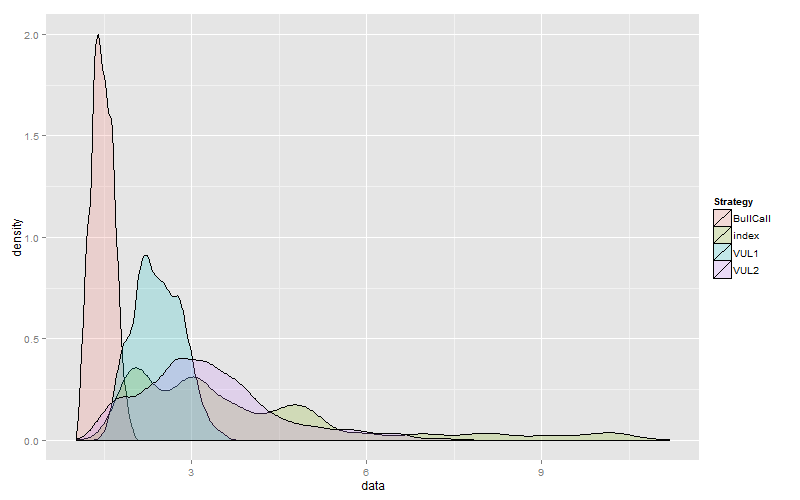
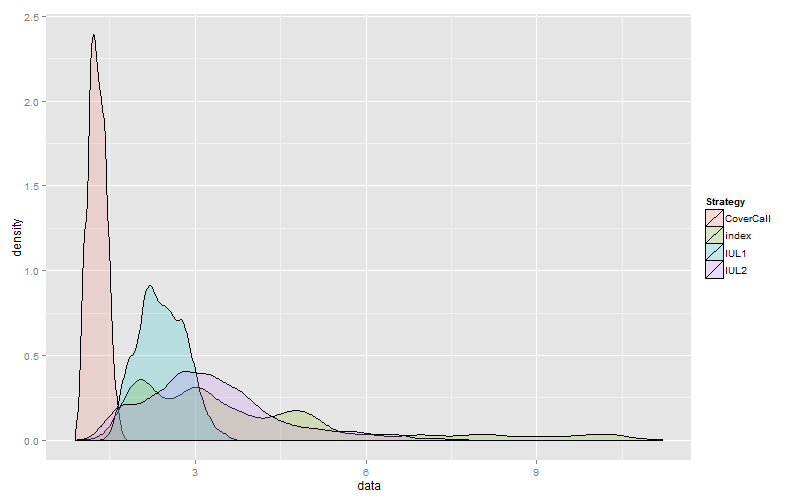
Update 2016-09-29-Stock-Investment-and-Life-Insurance.md

diff --git a/_posts/2016-09-29-Stock-Investment-and-Life-Insurance.md b/_posts/2016-09-29-Stock-Investment-and-Life-Insurance.md
@@ -19,7 +19,7 @@ Compare the following strategies:
 3. Strategy 3: invest in VUL without the cap contrainst
 	* Each year's capital gain percentage is S&P 500 index return subtracted by 5%, and floored at 0%
 4. Strategy 4: a strategy that tries to DIY strategy 2 
-	* Buy S&P 500 Index ETF and buy a bull call spread with 1-year maturity and roll every year (long ATM call and short 11% OTM call)
+	* Buy S&P 500 Index ETF and buy an ATM put and sell an 11%-OTM call with 1-year maturity and roll the options every year
 	* For simplicity, I assume 1-year interest rate of 1.5%, 1-year dividend yield of 2.46%, 1-year volatility of 15%
 	* The call spread premium is approximated by BS formula: annual cost is 3.41% of S&P 500 notional given the above parameters
 
@@ -35,22 +35,22 @@ Final asset value at the end of investment horizon divided by initial capital
 
 **Summary Statistics**
 
-| Percentiles |  ETF | VUL1 | VUL2 | ETF+BullSpread |
+| Percentiles |  ETF | IUL1 | IUL2 | CoverCall |
 |------------:|-----:|-----:|-----:|---------------:|
-|          0% | 0.74 | 0.91 | 0.85 |           0.93 |
-|          1% | 0.89 | 1.01 | 0.92 |           0.99 |
-|          5% | 1.07 | 1.10 | 1.00 |           1.04 |
-|         10% | 1.14 | 1.15 | 1.07 |           1.08 |
-|         25% | 1.34 | 1.23 | 1.23 |           1.13 |
-|         50% | 1.69 | 1.32 | 1.47 |           1.18 |
-|         75% | 2.17 | 1.42 | 1.81 |           1.24 |
-|         90% | 2.46 | 1.52 | 2.04 |           1.30 |
-|         95% | 2.82 | 1.58 | 2.16 |           1.34 |
-|         99% | 3.16 | 1.66 | 2.42 |           1.38 |
-|        100% | 3.30 | 1.73 | 2.93 |           1.43 |
-|        Mean | 1.77 | 1.33 | 1.52 |           1.18 |
-|         Vol | 1.77 | 1.33 | 1.52 |           1.18 |
-|      Sharpe | 0.34 | 0.13 | 0.24 |           0.02 |
+|          0% | 0.74 | 0.91 | 0.85 |           0.88 |
+|          1% | 0.89 | 1.01 | 0.92 |           0.94 |
+|          5% | 1.07 | 1.10 | 1.00 |           0.99 |
+|         10% | 1.14 | 1.15 | 1.07 |           1.02 |
+|         25% | 1.34 | 1.23 | 1.23 |           1.06 |
+|         50% | 1.69 | 1.32 | 1.47 |           1.11 |
+|         75% | 2.17 | 1.42 | 1.81 |           1.17 |
+|         90% | 2.46 | 1.52 | 2.04 |           1.22 |
+|         95% | 2.82 | 1.58 | 2.16 |           1.26 |
+|         99% | 3.16 | 1.66 | 2.42 |           1.30 |
+|        100% | 3.30 | 1.73 | 2.93 |           1.34 |
+|        Mean | 1.77 | 1.33 | 1.52 |           1.12 |
+|         Vol | 0.54 | 0.14 | 0.37 |           0.08 |
+|      Sharpe | 1.13 | 1.18 | 0.99 |          -0.58 |
 
 **Distributions**
 {% include image.html url="images/Histogram10Year.png" caption="" width="800" height="500" align="right" %}
@@ -63,22 +63,22 @@ Final asset value at the end of investment horizon divided by initial capital
 
 **Summary Statistics**
 
-| Percentiles |   ETF | VUL1 | VUL2 | ETF+BullSpread |
-|------------:|------:|-----:|-----:|---------------:|
-|          0% |  1.60 | 1.42 | 1.15 |           1.02 |
-|          1% |  1.71 | 1.61 | 1.40 |           1.10 |
-|          5% |  1.85 | 1.76 | 1.65 |           1.17 |
-|         10% |  1.96 | 1.87 | 1.88 |           1.22 |
-|         25% |  2.30 | 2.12 | 2.49 |           1.34 |
-|         50% |  3.22 | 2.40 | 3.13 |           1.46 |
-|         75% |  4.74 | 2.73 | 3.85 |           1.61 |
-|         90% |  7.13 | 2.97 | 4.84 |           1.72 |
-|         95% |  9.05 | 3.11 | 5.65 |           1.78 |
-|         99% | 10.38 | 3.39 | 6.65 |           1.91 |
-|        100% | 11.20 | 3.69 | 7.84 |           2.04 |
-|        Mean |  3.91 | 2.42 | 3.27 |           1.47 |
-|         Vol |  3.91 | 2.42 | 3.27 |           1.47 |
-|      Sharpe |  0.66 | 0.44 | 0.59 |           0.08 |
+| Percentiles |   ETF | IUL1 | IUL2 | CoverCall |
+|------------:|------:|-----:|-----:|----------:|
+|          0% |  1.60 | 1.42 | 1.15 |      0.91 |
+|          1% |  1.71 | 1.61 | 1.40 |      0.97 |
+|          5% |  1.85 | 1.76 | 1.65 |      1.03 |
+|         10% |  1.96 | 1.87 | 1.88 |      1.08 |
+|         25% |  2.30 | 2.12 | 2.49 |      1.17 |
+|         50% |  3.22 | 2.40 | 3.13 |      1.27 |
+|         75% |  4.74 | 2.73 | 3.85 |      1.40 |
+|         90% |  7.13 | 2.97 | 4.84 |      1.49 |
+|         95% |  9.05 | 3.11 | 5.65 |      1.54 |
+|         99% | 10.38 | 3.39 | 6.65 |      1.65 |
+|        100% | 11.20 | 3.69 | 7.84 |      1.76 |
+|        Mean |  3.91 | 2.42 | 3.27 |      1.28 |
+|         Vol |  2.10 | 0.42 | 1.16 |      0.16 |
+|      Sharpe |  1.22 | 2.58 | 1.67 |     -0.42 |
 
 **Distributions**
 {% include image.html url="images/Histogram20Year.png" caption="" width="800" height="500" align="right" %}
@@ -92,22 +92,22 @@ Final asset value at the end of investment horizon divided by initial capital
 
 **Summary Statistics**
 
-| Percentiles |   ETF | VUL1 |  VUL2 | ETF+BullSpread |
-|------------:|------:|-----:|------:|---------------:|
-|          0% |  3.92 | 2.39 |  2.96 |           1.18 |
-|          1% |  4.35 | 2.74 |  3.36 |           1.29 |
-|          5% |  4.65 | 3.09 |  3.70 |           1.41 |
-|         10% |  5.10 | 3.34 |  3.97 |           1.50 |
-|         25% |  5.74 | 3.79 |  5.03 |           1.65 |
-|         50% |  8.47 | 4.50 |  7.06 |           1.89 |
-|         75% | 11.27 | 5.08 |  8.77 |           2.07 |
-|         90% | 13.52 | 5.43 |  9.90 |           2.18 |
-|         95% | 14.46 | 5.64 | 10.60 |           2.25 |
-|         99% | 15.40 | 6.03 | 11.85 |           2.37 |
-|        100% | 16.32 | 6.77 | 14.22 |           2.62 |
-|        Mean |  8.65 | 4.43 |  7.00 |           1.86 |
-|         Vol |  8.65 | 4.43 |  7.00 |           1.86 |
-|      Sharpe |  0.82 | 0.65 |  0.78 |           0.16 |
+| Percentiles |   ETF | IUL1 |  IUL2 | CoverCall |
+|------------:|------:|-----:|------:|----------:|
+|          0% |  3.92 | 2.39 |  2.96 |      0.97 |
+|          1% |  4.35 | 2.74 |  3.36 |      1.06 |
+|          5% |  4.65 | 3.09 |  3.70 |      1.15 |
+|         10% |  5.10 | 3.34 |  3.97 |      1.21 |
+|         25% |  5.74 | 3.79 |  5.03 |      1.33 |
+|         50% |  8.47 | 4.50 |  7.06 |      1.51 |
+|         75% | 11.27 | 5.08 |  8.77 |      1.65 |
+|         90% | 13.52 | 5.43 |  9.90 |      1.73 |
+|         95% | 14.46 | 5.64 | 10.60 |      1.78 |
+|         99% | 15.40 | 6.03 | 11.85 |      1.87 |
+|        100% | 16.32 | 6.77 | 14.22 |      2.06 |
+|        Mean |  8.65 | 4.43 |  7.00 |      1.49 |
+|         Vol |  3.25 | 0.81 |  2.23 |      0.20 |
+|      Sharpe |  2.18 | 3.55 |  2.44 |     -0.37 |
 
 **Distributions**
 {% include image.html url="images/Histogram30Year.png" caption="" width="800" height="500" align="right" %}
